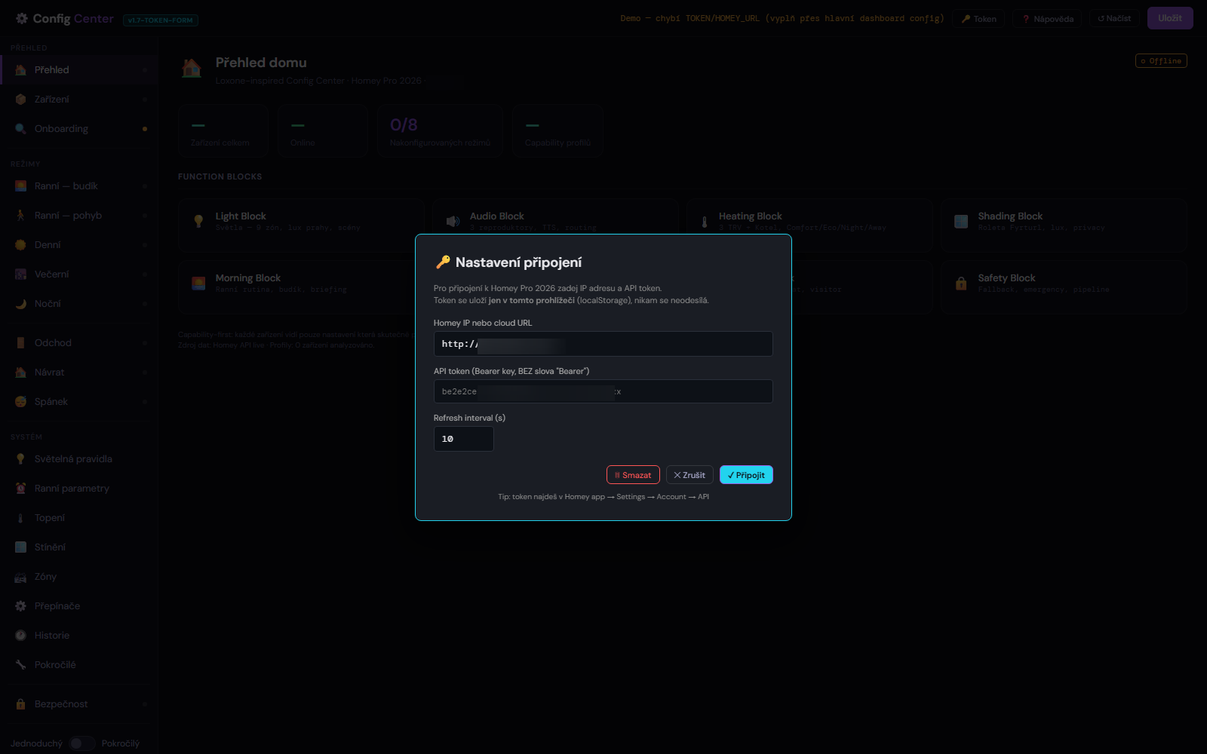
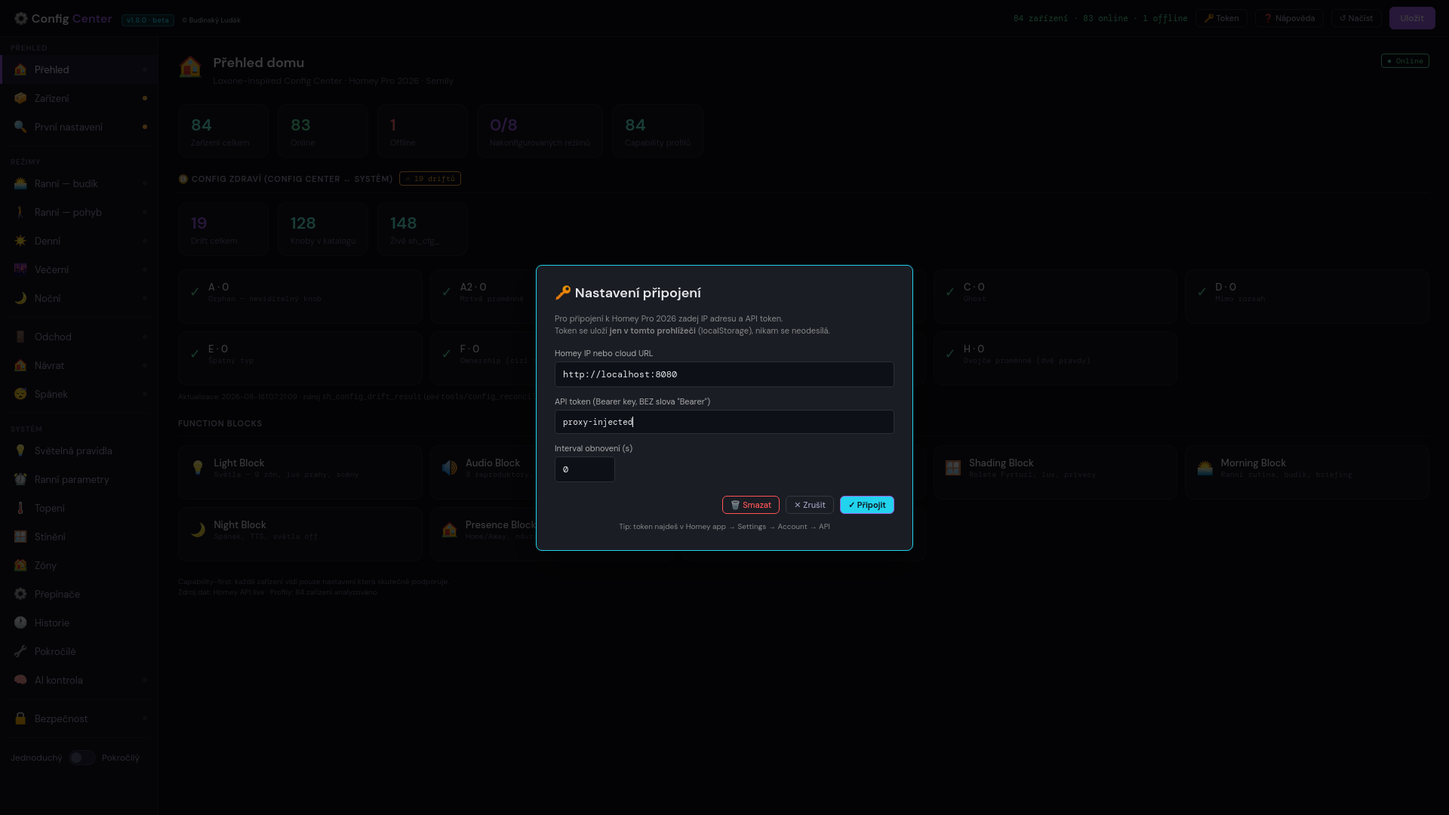
web/aplikace: kiosk + Config Center — nové screeny, Car Guard, deník
Deník na stránce Config Centra tvrdil v1.7.5 (květen), skutečnost je v1.8.0
beta (srpen). Stránka kiosku neměla o kameře ani Car Guardu ani zmínku.

Screeny (nové, sejmuté z živého systému):
- Config Center 7× ve full HD z běžící v1.8.0 (84 zařízení, 83 online, drift)
  + 2 nové stránky: AI kontrola a Zařízení
- kiosk 2× v nativním 1024x600 přímo z panelu (proto mají reálná data):
  Car Guard a hlavní obrazovka

Texty (cs + en + it; deník je jen v cs):
- kiosk: kamera a hlídání auta; deník doplněn o to, proč byl těžký ne sám
  detektor, ale odlišit "někdo je u mého auta" od "někdo jde po dvoře"
- Config Center: vlastní Windows aplikace s instalátorem a tichou aktualizací,
  hlídání driftu, sedm dosud skrytých nastavení

Opraveno nepravdivé tvrzení: Config Center už na panelu na zdi neběží
(config_center.html tam vrací HTTP 404) — text tvrdil opak.

diff --git a/aplikace/config-center.html b/aplikace/config-center.html
@@ -61,11 +61,15 @@
       <li><strong>Bezpečná zkouška se 10min navrácením</strong> — Než se změna potvrdí, mám 10 minut na test. Pokud do té doby neřeknu &bdquo;OK&ldquo;, samo se to vrátí. Nedá se rozbít dům jedním překlepem.</li>
       <li><strong>100+ věcí které si můžu doladit</strong> — Kdy začíná ranní rutina, jak rychle nabíhá světlo (ramp), za jak dlouho se vypne audio, jak silné má být ráno briefing, …</li>
       <li><strong>Token v prohlížeči, nikde jinde</strong> — Přístup do Homey hubu se uloží jen do localStorage tohoto prohlížeče. Žádný server, žádné cloudy, žádné &bdquo;přihlášení přes Google&ldquo;.</li>
+      <li><strong>Vlastní aplikace pro Windows</strong> — Od verze 1.8.0 má Config Center instalátor a spouští se jako běžný program, ne jako stránka v prohlížeči. Novou verzi si najde a nainstaluje sám.</li>
+      <li><strong>Hlídá rozdíly v nastavení</strong> — Sám porovnává, co je nastavené ve skutečnosti, s tím, co má být. Rozdílům říkám „drift" a je jich vidět počet i seznam — takže se nestane, že se něco tiše rozejde.</li>
       <li><strong>Hard-block pro citlivá zařízení</strong> — Některá zařízení nemůžou být omylem zapnutá. Třeba audio v ložnici během spánku, čistička přes plíseň, atd.</li>
   </ul>
 </section>
 
-<section><h2>Náhledy</h2><div style="display:grid;grid-template-columns:repeat(auto-fit,minmax(280px,1fr));gap:1rem;margin-top:.6rem"><figure style="margin:0"><img src="../../assets/img/aplikace/config-center/live_overview.png" alt="Přihlášení tokenem — token zůstává jen v prohlížeči (localStorage)" loading="lazy" style="width:100%;height:auto;border-radius:8px;border:1px solid var(--border,#0001);display:block"><figcaption style="font-size:.85rem;color:var(--txt-muted,#666);margin-top:.4rem">Přihlášení tokenem — token zůstává jen v prohlížeči (localStorage)</figcaption></figure>
+<section><h2>Náhledy</h2><div style="display:grid;grid-template-columns:repeat(auto-fit,minmax(280px,1fr));gap:1rem;margin-top:.6rem"><figure style="margin:0"><img src="../../assets/img/aplikace/config-center/ai_kontrola.png" alt="AI kontrola — přehled o tom, co si systém dovolí rozhodnout sám" loading="lazy" style="width:100%;height:auto;border-radius:8px;border:1px solid var(--border,#0001);display:block"><figcaption style="font-size:.85rem;color:var(--txt-muted,#666);margin-top:.4rem">AI kontrola — přehled o tom, co si systém dovolí rozhodnout sám</figcaption></figure>
+      <figure style="margin:0"><img src="../../assets/img/aplikace/config-center/devices.png" alt="Zařízení — 84 zařízení, co které umí a která nastavení tedy dávají smysl" loading="lazy" style="width:100%;height:auto;border-radius:8px;border:1px solid var(--border,#0001);display:block"><figcaption style="font-size:.85rem;color:var(--txt-muted,#666);margin-top:.4rem">Zařízení — 84 zařízení, co které umí a která nastavení tedy dávají smysl</figcaption></figure>
+      <figure style="margin:0"><img src="../../assets/img/aplikace/config-center/live_overview.png" alt="Přihlášení tokenem — token zůstává jen v prohlížeči (localStorage)" loading="lazy" style="width:100%;height:auto;border-radius:8px;border:1px solid var(--border,#0001);display:block"><figcaption style="font-size:.85rem;color:var(--txt-muted,#666);margin-top:.4rem">Přihlášení tokenem — token zůstává jen v prohlížeči (localStorage)</figcaption></figure>
       <figure style="margin:0"><img src="../../assets/img/aplikace/config-center/overview.png" alt="Přehled — všechny módy a parametry na jednom místě" loading="lazy" style="width:100%;height:auto;border-radius:8px;border:1px solid var(--border,#0001);display:block"><figcaption style="font-size:.85rem;color:var(--txt-muted,#666);margin-top:.4rem">Přehled — všechny módy a parametry na jednom místě</figcaption></figure>
       <figure style="margin:0"><img src="../../assets/img/aplikace/config-center/heating.png" alt="Topení — TRV zóny, hystereze, boost, pre-wake plán" loading="lazy" style="width:100%;height:auto;border-radius:8px;border:1px solid var(--border,#0001);display:block"><figcaption style="font-size:.85rem;color:var(--txt-muted,#666);margin-top:.4rem">Topení — TRV zóny, hystereze, boost, pre-wake plán</figcaption></figure>
       <figure style="margin:0"><img src="../../assets/img/aplikace/config-center/zones.png" alt="Zóny — světla, motion sensors, audio per místnost" loading="lazy" style="width:100%;height:auto;border-radius:8px;border:1px solid var(--border,#0001);display:block"><figcaption style="font-size:.85rem;color:var(--txt-muted,#666);margin-top:.4rem">Zóny — světla, motion sensors, audio per místnost</figcaption></figure>
@@ -75,7 +79,7 @@
 
 <section>
   <h2>Stav</h2>
-  <p>Denně používané. Verze v1.7.5 (květen 2026). Běží lokálně v prohlížeči na PC i na malém panelu na zdi (RPi kiosk). 100+ proměnných je živě editovatelných.</p>
+  <p>Denně používané. Verze <strong>v1.8.0 beta</strong> (srpen 2026) — nově jako samostatná aplikace pro Windows s vlastním instalátorem a tichou aktualizací. Běží lokálně na PC; 100+ proměnných je živě editovatelných. Data nikam neodcházejí.</p>
 </section>
 
   <section style="margin:1.2rem 0"><button id="openDeník" class="diary-btn">📖 Vývojový deník</button></section>
@@ -90,7 +94,9 @@
     </div>
     <div class="diary-body">
       <ul style="line-height:1.8">
-        <li><strong>v1.7.5 — centrum chytré domácnosti (květen 2026)</strong> — 100+ proměnných živě editovatelných z prohlížeče (PC i panel na zdi): kdy začíná ranní rutina, jak rychle náběh světla (ramp), prahy senzorů, časové režimy a scény.</li>
+        <li><strong>v1.8.0 beta — vlastní aplikace pro Windows (srpen 2026)</strong> — dosud to byla stránka, kterou jsem si musel někde spustit. Teď má instalátor a chová se jako každý jiný program. Umí se sám tiše aktualizovat: kouká na domácí úložiště, jestli tam není novější verze, ověří ji podle kontrolního součtu a nainstaluje. Přihlášení k Homey přežije restart i přeinstalaci.</li>
+        <li><strong>Sedm skrytých nastavení na světlo</strong> — sedm voleb, které existovaly v systému, ale v Config Centru je nebylo vidět, se doplnilo do katalogu — třeba okno pro automatické vysávání, odchodový přehled nebo držení přítomnosti v open space. Rozdíl mezi „co systém umí" a „co jde nastavit" tím klesl na nulu.</li>
+        <li><strong>Centrum chytré domácnosti</strong> — 100+ proměnných živě editovatelných: kdy začíná ranní rutina, jak rychle náběh světla (ramp), prahy senzorů, časové režimy a scény.</li>
         <li><strong>Hlasové zprávy a plán topení</strong> — 22 stránek pro každý režim (ranní/denní/večerní/noční/pryč/doma/spánek) a plán topení den po dni, hodinu po hodině pro 4 zóny (jídelna, ložnice, koupelna, toaleta).</li>
         <li><strong>Bezpečná zkouška s 10min navrácením</strong> — než se změna potvrdí, je 10 minut na test; pokud nepotvrdíš, sama se vrátí. Hard-block pro citlivá zařízení (třeba audio v ložnici během spánku).</li>
         <li><strong>Soukromě</strong> — přístup do Homey hubu se uloží jen do localStorage tohoto prohlížeče. Žádný server, žádný cloud.</li>

diff --git a/aplikace/rpi-kiosk.html b/aplikace/rpi-kiosk.html
@@ -61,11 +61,14 @@
       <li><strong>Ovládání světel</strong> — Všechny místnosti, dim, barva, scény. Žádné hledání v telefonu.</li>
       <li><strong>Audio z rádia</strong> — Spuštění/zastavení internetových rádií, volba reproduktoru, hlasitost.</li>
       <li><strong>Topení a energie</strong> — Runtime kotle, TRV zóny, aktuální odběr, který spotřebič tahá.</li>
+      <li><strong>Kamera a hlídání auta</strong> — Živý obraz z kamery před domem přímo na panelu. Systém sám pozná, že u auta někdo stojí, a ohlásí to nahlas i zprávou na mobil — kolemjdoucí po dvoře přitom ignoruje.</li>
       <li><strong>Bez telefonu, bez login</strong> — Nemusí se nikdo přihlašovat, nemusí se nic hledat. Otevři dveře — panel ti to ukáže.</li>
   </ul>
 </section>
 
-<section><h2>Náhledy</h2><div style="display:grid;grid-template-columns:repeat(auto-fit,minmax(280px,1fr));gap:1rem;margin-top:.6rem"><figure style="margin:0"><img src="../../assets/img/aplikace/rpi-kiosk/01_audio.png" alt="Audio a scény — spuštění rádia, scénář pro relax / kino / vaření / večeři" loading="lazy" style="width:100%;height:auto;border-radius:8px;border:1px solid var(--border,#0001);display:block"><figcaption style="font-size:.85rem;color:var(--txt-muted,#666);margin-top:.4rem">Audio a scény — spuštění rádia, scénář pro relax / kino / vaření / večeři</figcaption></figure>
+<section><h2>Náhledy</h2><div style="display:grid;grid-template-columns:repeat(auto-fit,minmax(280px,1fr));gap:1rem;margin-top:.6rem"><figure style="margin:0"><img src="../../assets/img/aplikace/rpi-kiosk/05_carguard.png" alt="Hlídání auta — živý obraz z kamery, poslední události a nastavení hlášení. Hlídaná zóna se počítá sama kolem auta tam, kde zrovna stojí." loading="lazy" style="width:100%;height:auto;border-radius:8px;border:1px solid var(--border,#0001);display:block"><figcaption style="font-size:.85rem;color:var(--txt-muted,#666);margin-top:.4rem">Hlídání auta — živý obraz z kamery, poslední události a nastavení hlášení. Hlídaná zóna se počítá sama kolem auta tam, kde zrovna stojí.</figcaption></figure>
+      <figure style="margin:0"><img src="../../assets/img/aplikace/rpi-kiosk/06_home.png" alt="Hlavní obrazovka — stav domu, scény a rychlé akce jedním dotykem." loading="lazy" style="width:100%;height:auto;border-radius:8px;border:1px solid var(--border,#0001);display:block"><figcaption style="font-size:.85rem;color:var(--txt-muted,#666);margin-top:.4rem">Hlavní obrazovka — stav domu, scény a rychlé akce jedním dotykem.</figcaption></figure>
+      <figure style="margin:0"><img src="../../assets/img/aplikace/rpi-kiosk/01_audio.png" alt="Audio a scény — spuštění rádia, scénář pro relax / kino / vaření / večeři" loading="lazy" style="width:100%;height:auto;border-radius:8px;border:1px solid var(--border,#0001);display:block"><figcaption style="font-size:.85rem;color:var(--txt-muted,#666);margin-top:.4rem">Audio a scény — spuštění rádia, scénář pro relax / kino / vaření / večeři</figcaption></figure>
       <figure style="margin:0"><img src="../../assets/img/aplikace/rpi-kiosk/02_energy.png" alt="Energie a topení — runtime kotle dnes, stav TRV zón, aktuální odběr" loading="lazy" style="width:100%;height:auto;border-radius:8px;border:1px solid var(--border,#0001);display:block"><figcaption style="font-size:.85rem;color:var(--txt-muted,#666);margin-top:.4rem">Energie a topení — runtime kotle dnes, stav TRV zón, aktuální odběr</figcaption></figure>
       <figure style="margin:0"><img src="../../assets/img/aplikace/rpi-kiosk/03_scenes.png" alt="Scény (styl Loxone) — jeden velký dotyk a celá místnost se přestaví" loading="lazy" style="width:100%;height:auto;border-radius:8px;border:1px solid var(--border,#0001);display:block"><figcaption style="font-size:.85rem;color:var(--txt-muted,#666);margin-top:.4rem">Scény (styl Loxone) — jeden velký dotyk a celá místnost se přestaví</figcaption></figure>
       <figure style="margin:0"><img src="../../assets/img/aplikace/rpi-kiosk/04_settings.png" alt="Nastavení — rychlý přehled provozu domu bez nutnosti otevřít telefon" loading="lazy" style="width:100%;height:auto;border-radius:8px;border:1px solid var(--border,#0001);display:block"><figcaption style="font-size:.85rem;color:var(--txt-muted,#666);margin-top:.4rem">Nastavení — rychlý přehled provozu domu bez nutnosti otevřít telefon</figcaption></figure></div></section>
@@ -90,6 +93,9 @@
         <li><strong>Dotykový panel na zdi</strong> — Raspberry Pi 4 + 7palcový dotykový displej v chodbě, vždy zapnutý a připravený. Scény jedním palcem (Relax, Kino, Vaření, Večeře, Romantika, Práce, Příchod, Odchod).</li>
         <li><strong>Ovládání celého bytu</strong> — světla (všechny místnosti, dim, barva, scény), audio z internetových rádií (volba reproduktoru, hlasitost), topení a energie (runtime kotle, TRV zóny, aktuální odběr).</li>
         <li><strong>Bez telefonu, bez loginu</strong> — nikdo se nemusí přihlašovat ani nic hledat; otevřeš dveře a panel ti to ukáže.</li>
+        <li><strong>Kamera před domem (srpen 2026)</strong> — panel ukazuje živý obraz z kamery a poslední události i s náhledy. Nemusíš nikam chodit ani hledat aplikaci v telefonu.</li>
+        <li><strong>Hlídání auta (srpen 2026)</strong> — systém sám pozná, že u auta někdo stojí, a ohlásí to nahlas v kuchyni i zprávou na mobil. Těžké na tom nebylo rozpoznat člověka, ale odlišit „někdo je u mého auta" od „někdo jde po dvoře" — dvůr je průchozí a projde tudy přes sto lidí denně. První pokus to dokonce zhoršil: planých poplachů přibylo. Ukázalo se proč — na plochém obrázku může být člověk o patnáct metrů dál hned vedle auta. Teď se posuzuje, jak je v záběru velký: kdo stojí u auta, je vidět velký, kdo je daleko, je malý. Planých poplachů ubylo z šestadvaceti na nulu.</li>
+        <li><strong>Dvě hlasitosti hlášení</strong> — nahlas, když je někdo přímo u auta. A tišší zpráva na mobil, když se někdo u auta jen zdržuje. Aby si člověk hlášení nezačal po týdnu vypínat.</li>
         <li><strong>Spolehlivě 24/7</strong> — běží pořád, auto-restart při výpadku proudu, cca rok bez problémů.</li>
       </ul>
       <p style="color:var(--text-mut,#777);font-size:.85rem">Pozn.: aplikace běží jen lokálně, reálná data ani osobní údaje nejdou na web.</p>

diff --git a/en/aplikace/config-center.html b/en/aplikace/config-center.html
@@ -61,11 +61,15 @@
       <li><strong>10-min preview safety</strong> — Change applies first, 10 min to test, auto-reverts if I don't confirm. Can't break the house with one typo.</li>
       <li><strong>100+ knobs to tune</strong> — When morning starts, how fast lights ramp up, how long audio stays on, how loud the morning briefing is, …</li>
       <li><strong>Token in browser only</strong> — Hub access stored only in this browser's localStorage. No server, no clouds, no &bdquo;sign in with Google&ldquo;.</li>
+      <li><strong>Its own Windows app</strong> — Since v1.8.0 Config Center ships with an installer and starts like a normal program instead of a browser page. It finds and installs new versions by itself.</li>
+      <li><strong>Watches for drift</strong> — It compares what is actually set against what should be set. Differences show up as a count and a list, so nothing quietly diverges.</li>
       <li><strong>Hard-block for sensitive gear</strong> — Some devices can't be accidentally on. E.g. bedroom audio while sleeping, purifier during mold treatment, etc.</li>
   </ul>
 </section>
 
-<section><h2>Screenshots</h2><div style="display:grid;grid-template-columns:repeat(auto-fit,minmax(280px,1fr));gap:1rem;margin-top:.6rem"><figure style="margin:0"><img src="../../../assets/img/aplikace/config-center/live_overview.png" alt="Přihlášení tokenem — token zůstává jen v prohlížeči (localStorage)" loading="lazy" style="width:100%;height:auto;border-radius:8px;border:1px solid var(--border,#0001);display:block"><figcaption style="font-size:.85rem;color:var(--txt-muted,#666);margin-top:.4rem">Přihlášení tokenem — token zůstává jen v prohlížeči (localStorage)</figcaption></figure>
+<section><h2>Screenshots</h2><div style="display:grid;grid-template-columns:repeat(auto-fit,minmax(280px,1fr));gap:1rem;margin-top:.6rem"><figure style="margin:0"><img src="../../../assets/img/aplikace/config-center/ai_kontrola.png" alt="AI control — what the system is allowed to decide on its own" loading="lazy" style="width:100%;height:auto;border-radius:8px;border:1px solid var(--border,#0001);display:block"><figcaption style="font-size:.85rem;color:var(--txt-muted,#666);margin-top:.4rem">AI control — what the system is allowed to decide on its own</figcaption></figure>
+      <figure style="margin:0"><img src="../../../assets/img/aplikace/config-center/devices.png" alt="Devices — 84 devices, what each supports and which settings make sense" loading="lazy" style="width:100%;height:auto;border-radius:8px;border:1px solid var(--border,#0001);display:block"><figcaption style="font-size:.85rem;color:var(--txt-muted,#666);margin-top:.4rem">Devices — 84 devices, what each supports and which settings make sense</figcaption></figure>
+      <figure style="margin:0"><img src="../../../assets/img/aplikace/config-center/live_overview.png" alt="Přihlášení tokenem — token zůstává jen v prohlížeči (localStorage)" loading="lazy" style="width:100%;height:auto;border-radius:8px;border:1px solid var(--border,#0001);display:block"><figcaption style="font-size:.85rem;color:var(--txt-muted,#666);margin-top:.4rem">Přihlášení tokenem — token zůstává jen v prohlížeči (localStorage)</figcaption></figure>
       <figure style="margin:0"><img src="../../../assets/img/aplikace/config-center/overview.png" alt="Přehled — všechny módy a parametry na jednom místě" loading="lazy" style="width:100%;height:auto;border-radius:8px;border:1px solid var(--border,#0001);display:block"><figcaption style="font-size:.85rem;color:var(--txt-muted,#666);margin-top:.4rem">Přehled — všechny módy a parametry na jednom místě</figcaption></figure>
       <figure style="margin:0"><img src="../../../assets/img/aplikace/config-center/heating.png" alt="Topení — TRV zóny, hystereze, boost, pre-wake plán" loading="lazy" style="width:100%;height:auto;border-radius:8px;border:1px solid var(--border,#0001);display:block"><figcaption style="font-size:.85rem;color:var(--txt-muted,#666);margin-top:.4rem">Topení — TRV zóny, hystereze, boost, pre-wake plán</figcaption></figure>
       <figure style="margin:0"><img src="../../../assets/img/aplikace/config-center/zones.png" alt="Zóny — světla, motion sensors, audio per místnost" loading="lazy" style="width:100%;height:auto;border-radius:8px;border:1px solid var(--border,#0001);display:block"><figcaption style="font-size:.85rem;color:var(--txt-muted,#666);margin-top:.4rem">Zóny — světla, motion sensors, audio per místnost</figcaption></figure>
@@ -75,7 +79,7 @@
 
 <section>
   <h2>Status</h2>
-  <p>In daily use. Version v1.7.5 (May 2026). Runs locally in a browser on PC and on a small wall panel (RPi kiosk). 100+ variables editable live.</p>
+  <p>In daily use. Version <strong>v1.8.0 beta</strong> (August 2026) — now a standalone Windows app with its own installer and silent updates. Runs locally on PC; 100+ variables editable live. No data leaves the machine.</p>
 </section>
 
 </main>

diff --git a/it/aplikace/config-center.html b/it/aplikace/config-center.html
@@ -61,11 +61,15 @@
       <li><strong>Sicurezza preview 10 min</strong> — Modifica applica prima, 10 min di test, auto-ripristino se non confermo.</li>
       <li><strong>100+ parametri regolabili</strong> — Quando inizia il mattino, velocità ramp luci, durata audio, volume briefing, …</li>
       <li><strong>Token solo nel browser</strong> — Accesso hub solo in localStorage del browser. Niente server, niente cloud.</li>
+      <li><strong>App per Windows</strong> — Dalla versione 1.8.0 Config Center ha un installer e si avvia come un normale programma, non come pagina del browser. Trova e installa da solo le nuove versioni.</li>
+      <li><strong>Controlla le differenze</strong> — Confronta ciò che è realmente impostato con ciò che dovrebbe esserlo. Le differenze appaiono come numero ed elenco.</li>
       <li><strong>Hard-block per attrezzature delicate</strong> — Alcuni dispositivi non si accendono per sbaglio. Es. audio camera durante il sonno.</li>
   </ul>
 </section>
 
-<section><h2>Anteprime</h2><div style="display:grid;grid-template-columns:repeat(auto-fit,minmax(280px,1fr));gap:1rem;margin-top:.6rem"><figure style="margin:0"><img src="../../../assets/img/aplikace/config-center/live_overview.png" alt="Přihlášení tokenem — token zůstává jen v prohlížeči (localStorage)" loading="lazy" style="width:100%;height:auto;border-radius:8px;border:1px solid var(--border,#0001);display:block"><figcaption style="font-size:.85rem;color:var(--txt-muted,#666);margin-top:.4rem">Přihlášení tokenem — token zůstává jen v prohlížeči (localStorage)</figcaption></figure>
+<section><h2>Anteprime</h2><div style="display:grid;grid-template-columns:repeat(auto-fit,minmax(280px,1fr));gap:1rem;margin-top:.6rem"><figure style="margin:0"><img src="../../../assets/img/aplikace/config-center/ai_kontrola.png" alt="Controllo AI — cosa il sistema può decidere da solo" loading="lazy" style="width:100%;height:auto;border-radius:8px;border:1px solid var(--border,#0001);display:block"><figcaption style="font-size:.85rem;color:var(--txt-muted,#666);margin-top:.4rem">Controllo AI — cosa il sistema può decidere da solo</figcaption></figure>
+      <figure style="margin:0"><img src="../../../assets/img/aplikace/config-center/devices.png" alt="Dispositivi — 84 dispositivi, cosa supportano e quali impostazioni hanno senso" loading="lazy" style="width:100%;height:auto;border-radius:8px;border:1px solid var(--border,#0001);display:block"><figcaption style="font-size:.85rem;color:var(--txt-muted,#666);margin-top:.4rem">Dispositivi — 84 dispositivi, cosa supportano e quali impostazioni hanno senso</figcaption></figure>
+      <figure style="margin:0"><img src="../../../assets/img/aplikace/config-center/live_overview.png" alt="Přihlášení tokenem — token zůstává jen v prohlížeči (localStorage)" loading="lazy" style="width:100%;height:auto;border-radius:8px;border:1px solid var(--border,#0001);display:block"><figcaption style="font-size:.85rem;color:var(--txt-muted,#666);margin-top:.4rem">Přihlášení tokenem — token zůstává jen v prohlížeči (localStorage)</figcaption></figure>
       <figure style="margin:0"><img src="../../../assets/img/aplikace/config-center/overview.png" alt="Přehled — všechny módy a parametry na jednom místě" loading="lazy" style="width:100%;height:auto;border-radius:8px;border:1px solid var(--border,#0001);display:block"><figcaption style="font-size:.85rem;color:var(--txt-muted,#666);margin-top:.4rem">Přehled — všechny módy a parametry na jednom místě</figcaption></figure>
       <figure style="margin:0"><img src="../../../assets/img/aplikace/config-center/heating.png" alt="Topení — TRV zóny, hystereze, boost, pre-wake plán" loading="lazy" style="width:100%;height:auto;border-radius:8px;border:1px solid var(--border,#0001);display:block"><figcaption style="font-size:.85rem;color:var(--txt-muted,#666);margin-top:.4rem">Topení — TRV zóny, hystereze, boost, pre-wake plán</figcaption></figure>
       <figure style="margin:0"><img src="../../../assets/img/aplikace/config-center/zones.png" alt="Zóny — světla, motion sensors, audio per místnost" loading="lazy" style="width:100%;height:auto;border-radius:8px;border:1px solid var(--border,#0001);display:block"><figcaption style="font-size:.85rem;color:var(--txt-muted,#666);margin-top:.4rem">Zóny — světla, motion sensors, audio per místnost</figcaption></figure>
@@ -75,7 +79,7 @@
 
 <section>
   <h2>Stato</h2>
-  <p>Uso quotidiano. Versione v1.7.5 (maggio 2026). Gira in locale nel browser su PC e su un piccolo pannello a muro (kiosk RPi). 100+ variabili modificabili live.</p>
+  <p>Uso quotidiano. Versione <strong>v1.8.0 beta</strong> (agosto 2026) — ora app autonoma per Windows con installer e aggiornamento silenzioso. Gira in locale su PC; 100+ variabili modificabili live. Nessun dato lascia il computer.</p>
 </section>
 
 </main>

diff --git a/it/aplikace/rpi-kiosk.html b/it/aplikace/rpi-kiosk.html
@@ -61,11 +61,14 @@
       <li><strong>Controllo luci</strong> — Tutte le stanze, dim, colore, scene.</li>
       <li><strong>Audio radio</strong> — Avvio/stop radio, scelta altoparlante, volume.</li>
       <li><strong>Riscaldamento e energia</strong> — Runtime caldaia, zone TRV, consumo attuale.</li>
+      <li><strong>Telecamera e sorveglianza auto</strong> — Immagine dal vivo della telecamera davanti a casa, direttamente sul pannello. Il sistema riconosce da solo che qualcuno è vicino all'auto e lo annuncia a voce e sul telefono — ignorando invece chi attraversa soltanto il cortile.</li>
       <li><strong>No telefono, no login</strong> — Niente accesso. Apri la porta — il pannello mostra.</li>
   </ul>
 </section>
 
-<section><h2>Anteprime</h2><div style="display:grid;grid-template-columns:repeat(auto-fit,minmax(280px,1fr));gap:1rem;margin-top:.6rem"><figure style="margin:0"><img src="../../../assets/img/aplikace/rpi-kiosk/01_audio.png" alt="Audio a scény — spuštění rádia, scénář pro relax / kino / vaření / večeři" loading="lazy" style="width:100%;height:auto;border-radius:8px;border:1px solid var(--border,#0001);display:block"><figcaption style="font-size:.85rem;color:var(--txt-muted,#666);margin-top:.4rem">Audio a scény — spuštění rádia, scénář pro relax / kino / vaření / večeři</figcaption></figure>
+<section><h2>Anteprime</h2><div style="display:grid;grid-template-columns:repeat(auto-fit,minmax(280px,1fr));gap:1rem;margin-top:.6rem"><figure style="margin:0"><img src="../../../assets/img/aplikace/rpi-kiosk/05_carguard.png" alt="Sorveglianza auto — immagine dal vivo, eventi recenti e impostazioni degli avvisi. L'area sorvegliata si calcola da sola attorno all'auto dov'è parcheggiata." loading="lazy" style="width:100%;height:auto;border-radius:8px;border:1px solid var(--border,#0001);display:block"><figcaption style="font-size:.85rem;color:var(--txt-muted,#666);margin-top:.4rem">Sorveglianza auto — immagine dal vivo, eventi recenti e impostazioni degli avvisi. L'area sorvegliata si calcola da sola attorno all'auto dov'è parcheggiata.</figcaption></figure>
+      <figure style="margin:0"><img src="../../../assets/img/aplikace/rpi-kiosk/06_home.png" alt="Schermata principale — stati della casa, scene e azioni rapide in un tocco." loading="lazy" style="width:100%;height:auto;border-radius:8px;border:1px solid var(--border,#0001);display:block"><figcaption style="font-size:.85rem;color:var(--txt-muted,#666);margin-top:.4rem">Schermata principale — stati della casa, scene e azioni rapide in un tocco.</figcaption></figure>
+      <figure style="margin:0"><img src="../../../assets/img/aplikace/rpi-kiosk/01_audio.png" alt="Audio a scény — spuštění rádia, scénář pro relax / kino / vaření / večeři" loading="lazy" style="width:100%;height:auto;border-radius:8px;border:1px solid var(--border,#0001);display:block"><figcaption style="font-size:.85rem;color:var(--txt-muted,#666);margin-top:.4rem">Audio a scény — spuštění rádia, scénář pro relax / kino / vaření / večeři</figcaption></figure>
       <figure style="margin:0"><img src="../../../assets/img/aplikace/rpi-kiosk/02_energy.png" alt="Energie a topení — runtime kotle dnes, stav TRV zón, aktuální odběr" loading="lazy" style="width:100%;height:auto;border-radius:8px;border:1px solid var(--border,#0001);display:block"><figcaption style="font-size:.85rem;color:var(--txt-muted,#666);margin-top:.4rem">Energie a topení — runtime kotle dnes, stav TRV zón, aktuální odběr</figcaption></figure>
       <figure style="margin:0"><img src="../../../assets/img/aplikace/rpi-kiosk/03_scenes.png" alt="Scény (styl Loxone) — jeden velký dotyk a celá místnost se přestaví" loading="lazy" style="width:100%;height:auto;border-radius:8px;border:1px solid var(--border,#0001);display:block"><figcaption style="font-size:.85rem;color:var(--txt-muted,#666);margin-top:.4rem">Scény (styl Loxone) — jeden velký dotyk a celá místnost se přestaví</figcaption></figure>
       <figure style="margin:0"><img src="../../../assets/img/aplikace/rpi-kiosk/04_settings.png" alt="Nastavení — rychlý přehled provozu domu bez nutnosti otevřít telefon" loading="lazy" style="width:100%;height:auto;border-radius:8px;border:1px solid var(--border,#0001);display:block"><figcaption style="font-size:.85rem;color:var(--txt-muted,#666);margin-top:.4rem">Nastavení — rychlý přehled provozu domu bez nutnosti otevřít telefon</figcaption></figure></div></section>

diff --git a/en/aplikace/rpi-kiosk.html b/en/aplikace/rpi-kiosk.html
@@ -61,11 +61,14 @@
       <li><strong>Light control</strong> — All rooms, dim, color, scenes. No phone hunting.</li>
       <li><strong>Radio audio</strong> — Start/stop internet radios, choose speaker, volume.</li>
       <li><strong>Heating & energy</strong> — Boiler runtime, TRV zones, current draw, top consumer.</li>
+      <li><strong>Camera and car watch</strong> — Live view from the camera outside, right on the panel. The system recognises on its own that someone is standing at the car and announces it out loud and to the phone — while ignoring people just crossing the yard.</li>
       <li><strong>No phone, no login</strong> — No sign-in needed, nothing to search for. Open the door — panel shows it.</li>
   </ul>
 </section>
 
-<section><h2>Screenshots</h2><div style="display:grid;grid-template-columns:repeat(auto-fit,minmax(280px,1fr));gap:1rem;margin-top:.6rem"><figure style="margin:0"><img src="../../../assets/img/aplikace/rpi-kiosk/01_audio.png" alt="Audio a scény — spuštění rádia, scénář pro relax / kino / vaření / večeři" loading="lazy" style="width:100%;height:auto;border-radius:8px;border:1px solid var(--border,#0001);display:block"><figcaption style="font-size:.85rem;color:var(--txt-muted,#666);margin-top:.4rem">Audio a scény — spuštění rádia, scénář pro relax / kino / vaření / večeři</figcaption></figure>
+<section><h2>Screenshots</h2><div style="display:grid;grid-template-columns:repeat(auto-fit,minmax(280px,1fr));gap:1rem;margin-top:.6rem"><figure style="margin:0"><img src="../../../assets/img/aplikace/rpi-kiosk/05_carguard.png" alt="Car watch — live camera view, recent events and alert settings. The watched area is computed around the car wherever it happens to be parked." loading="lazy" style="width:100%;height:auto;border-radius:8px;border:1px solid var(--border,#0001);display:block"><figcaption style="font-size:.85rem;color:var(--txt-muted,#666);margin-top:.4rem">Car watch — live camera view, recent events and alert settings. The watched area is computed around the car wherever it happens to be parked.</figcaption></figure>
+      <figure style="margin:0"><img src="../../../assets/img/aplikace/rpi-kiosk/06_home.png" alt="Main screen — house states, scenes and quick actions in one touch." loading="lazy" style="width:100%;height:auto;border-radius:8px;border:1px solid var(--border,#0001);display:block"><figcaption style="font-size:.85rem;color:var(--txt-muted,#666);margin-top:.4rem">Main screen — house states, scenes and quick actions in one touch.</figcaption></figure>
+      <figure style="margin:0"><img src="../../../assets/img/aplikace/rpi-kiosk/01_audio.png" alt="Audio a scény — spuštění rádia, scénář pro relax / kino / vaření / večeři" loading="lazy" style="width:100%;height:auto;border-radius:8px;border:1px solid var(--border,#0001);display:block"><figcaption style="font-size:.85rem;color:var(--txt-muted,#666);margin-top:.4rem">Audio a scény — spuštění rádia, scénář pro relax / kino / vaření / večeři</figcaption></figure>
       <figure style="margin:0"><img src="../../../assets/img/aplikace/rpi-kiosk/02_energy.png" alt="Energie a topení — runtime kotle dnes, stav TRV zón, aktuální odběr" loading="lazy" style="width:100%;height:auto;border-radius:8px;border:1px solid var(--border,#0001);display:block"><figcaption style="font-size:.85rem;color:var(--txt-muted,#666);margin-top:.4rem">Energie a topení — runtime kotle dnes, stav TRV zón, aktuální odběr</figcaption></figure>
       <figure style="margin:0"><img src="../../../assets/img/aplikace/rpi-kiosk/03_scenes.png" alt="Scény (styl Loxone) — jeden velký dotyk a celá místnost se přestaví" loading="lazy" style="width:100%;height:auto;border-radius:8px;border:1px solid var(--border,#0001);display:block"><figcaption style="font-size:.85rem;color:var(--txt-muted,#666);margin-top:.4rem">Scény (styl Loxone) — jeden velký dotyk a celá místnost se přestaví</figcaption></figure>
       <figure style="margin:0"><img src="../../../assets/img/aplikace/rpi-kiosk/04_settings.png" alt="Nastavení — rychlý přehled provozu domu bez nutnosti otevřít telefon" loading="lazy" style="width:100%;height:auto;border-radius:8px;border:1px solid var(--border,#0001);display:block"><figcaption style="font-size:.85rem;color:var(--txt-muted,#666);margin-top:.4rem">Nastavení — rychlý přehled provozu domu bez nutnosti otevřít telefon</figcaption></figure></div></section>
